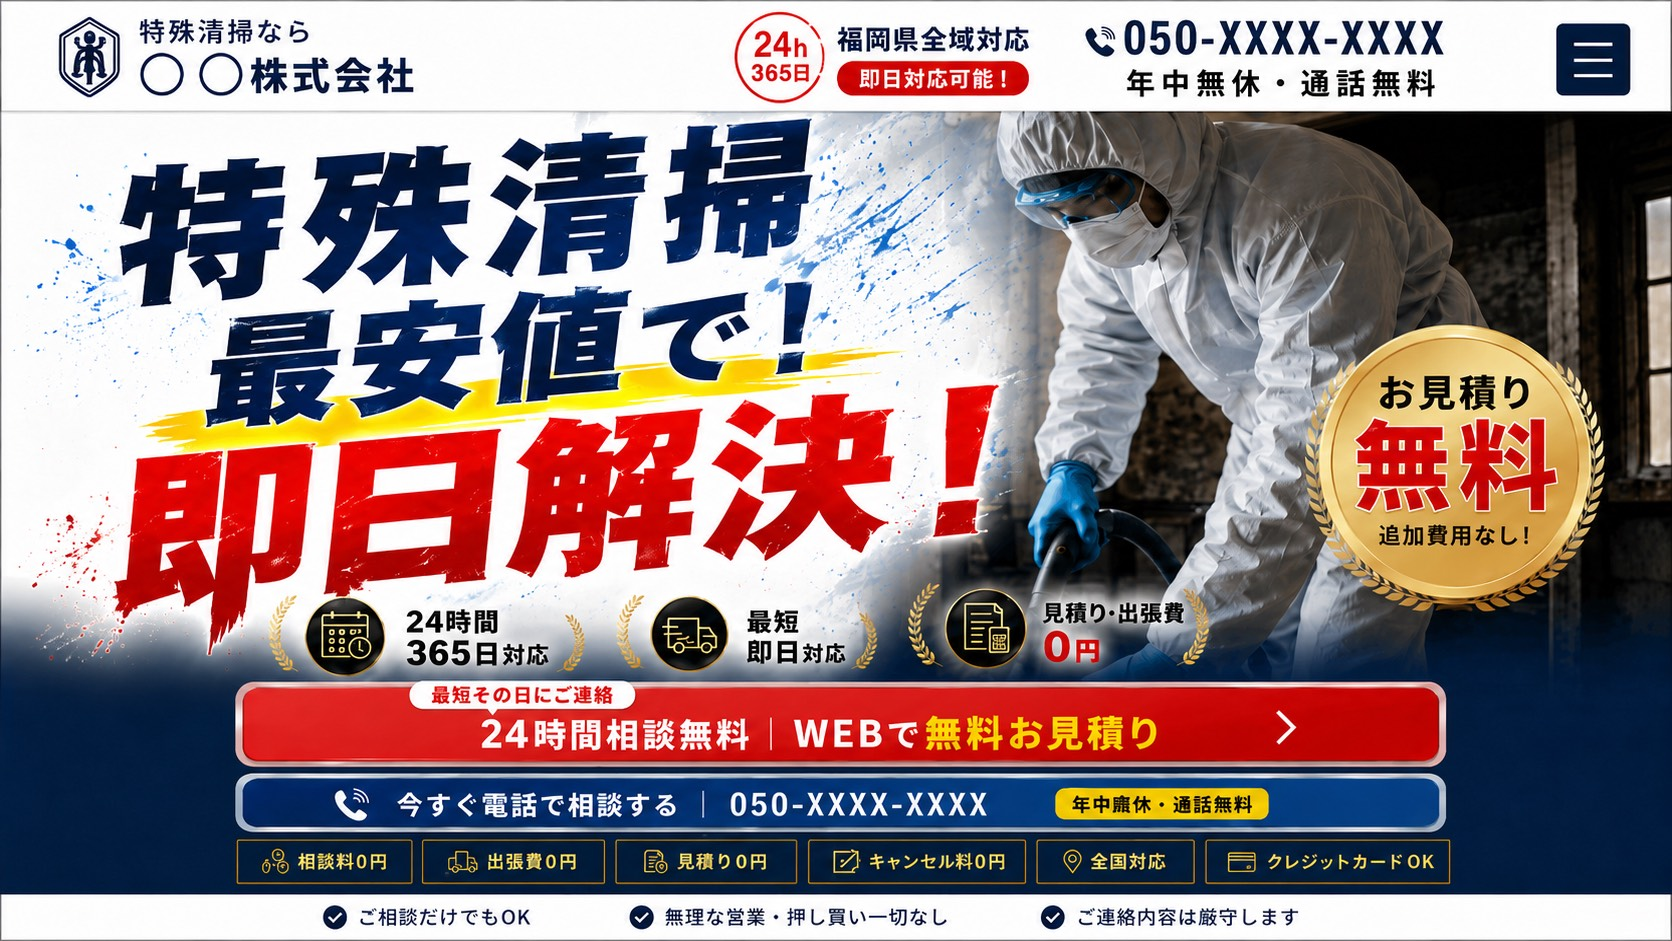
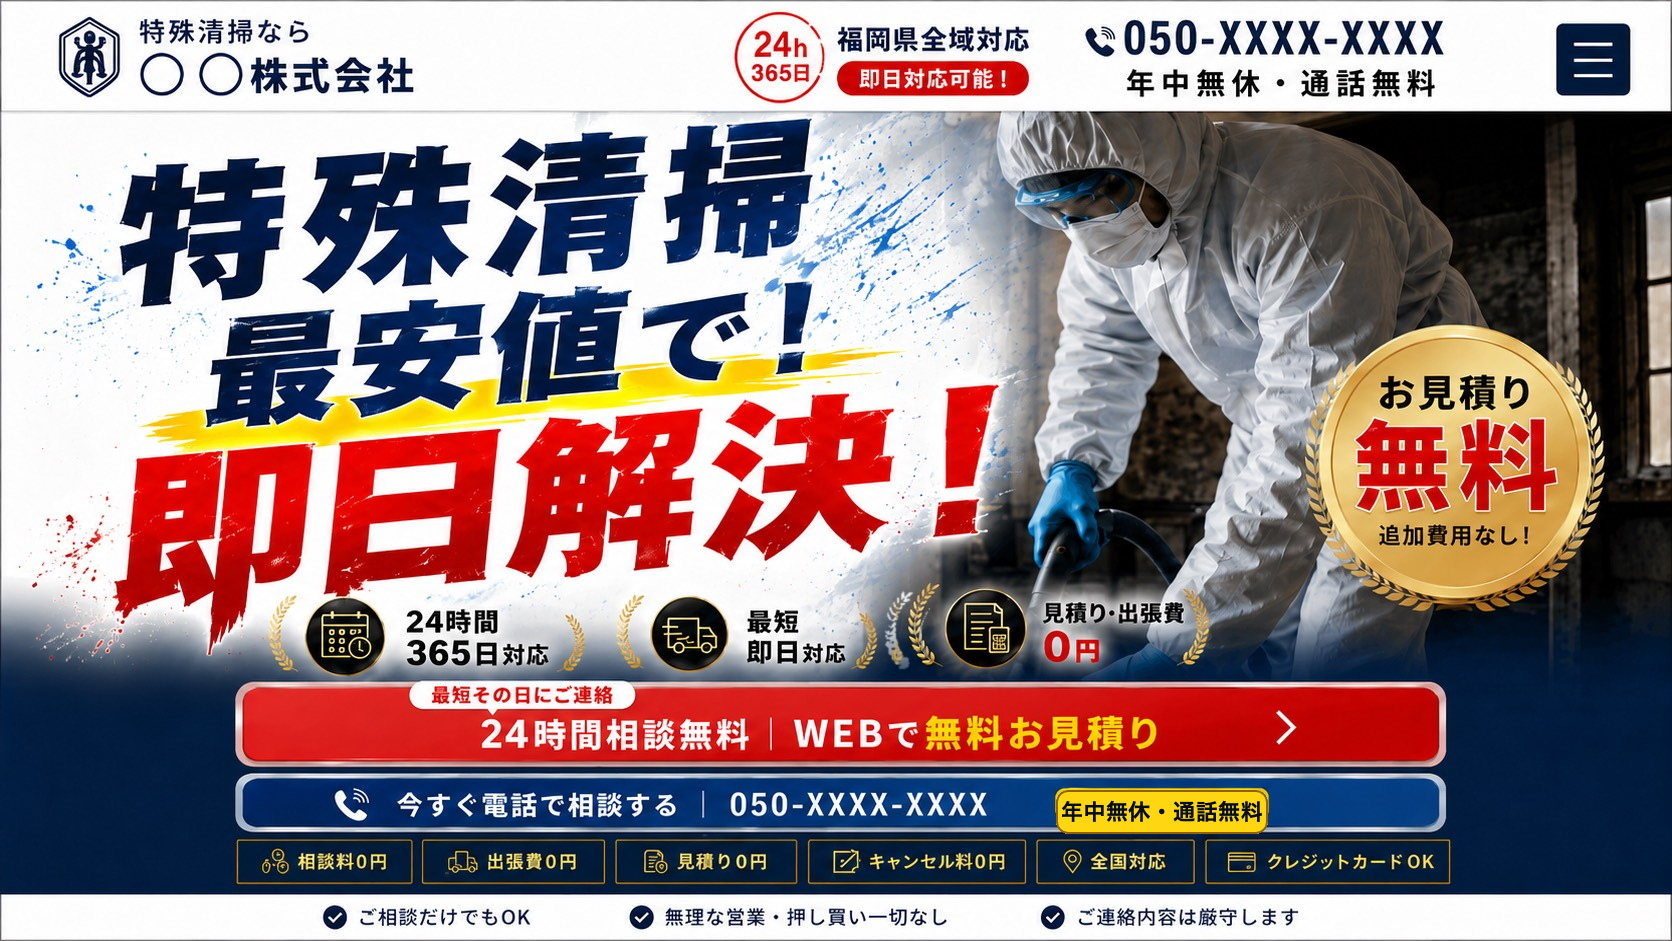
Refine public special cleaning HP visuals

Changed region(s): [[0.622, 0.8321, 0.7775, 0.8937], [0.5287, 0.6164, 0.5598, 0.7088]]

diff --git a/index.html b/index.html
@@ -104,8 +104,33 @@
               <img src="assets/tokushu-before-after.png" alt="特殊清掃と原状回復のビフォーアフターイメージ" width="1675" height="943" loading="lazy" decoding="async">
               <figcaption>原状回復のビフォーアフター。<br>清掃・消臭・片付けまで一括で対応します。</figcaption>
             </figure>
-            <div class="badge-panel"><h3>加盟スタッフの保有資格</h3><div class="license-badges"><span>事件現場特殊清掃士</span><span>遺品整理士</span></div><p>※取得者がいる加盟店のみ明記。<br>公開前に実情報へ差し替えてください。</p></div>
-            <div class="property-panel"><h3>対応物件</h3><ul class="property-list"><li><span class="property-icon property-icon--house"></span>戸建て</li><li><span class="property-icon property-icon--mansion"></span>マンション</li><li><span class="property-icon property-icon--apartment"></span>アパート</li><li><span class="property-icon property-icon--office"></span>オフィス</li><li><span class="property-icon property-icon--shop"></span>店舗</li></ul></div>
+            <article class="credential-panel">
+              <div class="credential-panel__copy">
+                <p class="credential-panel__eyebrow">有資格者が在籍</p>
+                <h3>「使命」を持って、現場に向き合う<br>事件現場特殊清掃士</h3>
+                <p>事件現場特殊清掃士は、一般社団法人 事件現場特殊清掃センターの認定資格です。特殊清掃に必要な知識・技術・心構えを学んだスタッフが、現場ごとの判断を丁寧に行います。</p>
+                <ul class="credential-points">
+                  <li>汚染箇所の見極め</li>
+                  <li>消臭・除菌工程の設計</li>
+                  <li>ご遺族・近隣への配慮</li>
+                </ul>
+                <div class="license-badges"><span>事件現場特殊清掃士</span><span>遺品整理士</span></div>
+              </div>
+              <figure class="certificate-photo">
+                <img src="assets/certificate-special-cleaning.jpg" alt="事件現場特殊清掃士の認定証イメージ" width="770" height="1048" loading="lazy" decoding="async">
+                <figcaption>専門性を示す認定資格を、現場対応の品質へ。</figcaption>
+              </figure>
+            </article>
+            <article class="property-panel property-panel--premium">
+              <div class="property-panel__copy">
+                <h3>対応物件</h3>
+                <p>戸建て・マンション・アパートから、オフィス・店舗まで。原状回復や管理会社様の再募集を見据えた仕上がりまで一括で整えます。</p>
+              </div>
+              <figure class="lp-photo property-photo">
+                <img src="assets/tokushu-properties-premium.png" alt="戸建て、マンション、アパート、オフィス、店舗の対応物件を表す上質なイメージ" width="1672" height="941" loading="lazy" decoding="async">
+              </figure>
+              <ul class="property-tags"><li>戸建て</li><li>マンション</li><li>アパート</li><li>オフィス</li><li>店舗</li></ul>
+            </article>
           </div>
         </div>
       </section>
@@ -184,7 +209,7 @@
         <div class="container final-cta__inner">
           <div><p class="section-label">無料相談</p><h2>最短最速で原状復帰を目指す<br>管理会社様へ。<br>まずは、お話をお聞かせください。</h2><p>時間が経つほど、ニオイ・害虫・原状回復の負担は大きくなります。<br>24時間365日、最短その日に。<br>費用は最初にすべて確定します。</p></div>
           <div class="final-cta__buttons" id="phone">
-            <a class="cta cta--primary cta--final" href="#web-estimate-form"><span>入力1分・最短その日にご連絡</span><strong>WEBで無料お見積り</strong><i aria-hidden="true"></i></a>
+            <a class="cta cta--primary cta--final" href="#web-estimate-form"><span>入力1分・最短その日にご連絡</span><strong>WEBで無料お見積り<b class="inline-arrow" aria-hidden="true">＞</b></strong></a>
             <a class="cta cta--phone cta--final-phone" href="#phone" data-phone-link><svg viewBox="0 0 24 24" aria-hidden="true"><path d="M7.2 2.7 10 6.9c.6.9.4 2.1-.4 2.8l-1.4 1.2c1.2 2.4 3.2 4.4 5.7 5.7l1.2-1.4c.7-.8 1.9-1 2.8-.4l4.2 2.8c.8.5 1.1 1.5.8 2.4-.6 1.8-2.2 3-4.1 3C8.7 23 1 15.3 1 5.2c0-1.9 1.2-3.5 3-4.1.9-.3 1.9 0 2.4.8Z"/></svg><strong>今すぐ電話で相談 <span data-bind="phone">050-XXXX-XXXX</span></strong><small>年中無休・通話無料</small></a>
             <p>相談・出張・見積・キャンセル：すべて0円<br>ご相談だけでも構いません<br>無理な営業はいたしません<br>ご連絡内容は厳守します</p>
           </div>

diff --git a/styles.css b/styles.css
@@ -13,3 +13,6 @@
 @media (max-width:1199px){.hero__visual{opacity:.64;width:56vw}.worker-figure{right:8%;transform:rotate(10deg) scale(.82);transform-origin:top right}.free-medal{width:150px;height:150px}.free-medal small{font-size:20px}.free-medal strong{font-size:44px}.hero__chips{grid-template-columns:repeat(3,minmax(0,1fr))}.section-split,.final-cta__inner{grid-template-columns:1fr}}
 @media (max-width:767px){:root{--content:min(100% - 24px,520px)}body{padding-bottom:64px}.brand__mark{width:35px}.brand__text span{font-size:11px}.brand__text strong{font-size:17px}.site-header__inner{min-height:62px}.hero__reference img{min-height:0;object-position:center top}.hero__fallback{min-height:760px;padding:18px 0 14px;background:linear-gradient(180deg,rgba(255,255,255,.96) 0 49%,rgba(0,27,61,.98) 49% 100%),linear-gradient(135deg,#fff 0 55%,#141b24 55% 100%)}.hero__body{min-height:455px}.hero__copy{padding-top:4px}.hero__kicker{font-size:17px;padding:5px 10px 4px;transform:rotate(-4deg)}.hero h1{font-size:clamp(58px,17vw,78px)}.hero__price{margin-left:0;margin-right:auto;font-size:33px}.hero__proof{max-width:100%;grid-template-columns:repeat(3,minmax(0,1fr));gap:4px}.proof-item{min-height:66px;gap:4px;font-size:12px;text-align:center;flex-direction:column}.proof-item:before,.proof-item:after{display:none}.proof-icon{width:38px;height:38px}.proof-icon:before,.proof-icon:after{inset:9px}.proof-item em{font-size:20px}.hero__visual{width:58vw;opacity:.5;right:-16px}.worker-figure{top:70px;right:-18px;transform:rotate(12deg) scale(.62)}.free-medal{right:0;bottom:58px;width:122px;height:122px;border-width:5px}.free-medal small{font-size:16px}.free-medal strong{font-size:36px}.free-medal span{font-size:13px}.cta{min-height:68px;padding:12px 14px}.cta--primary span{left:50%;min-width:190px;transform:translateX(-50%);font-size:13px}.cta--primary strong{font-size:21px}.cta--phone{flex-wrap:wrap}.cta--phone strong{font-size:20px}.cta--phone small{width:fit-content;font-size:12px}.hero__chips{grid-template-columns:repeat(3,minmax(0,1fr));gap:6px}.hero__chips li{min-height:42px;font-size:10px}.hero__notes{display:grid;gap:6px;margin-top:14px;padding:10px 12px;font-size:12px}.section{padding:58px 0}.section h2,.final-cta h2{font-size:28px}.metric-row,.reason-grid,.evidence-grid,.service-list,.voice-grid{grid-template-columns:1fr}.badge-panel,.property-panel{grid-column:auto}.lp-photo figcaption{font-size:12px}.proof-photo{margin-bottom:18px}.case-visual{min-height:230px}.property-list{grid-template-columns:repeat(2,minmax(0,1fr))}.faq-card{padding:20px}.faq-card h3,.faq-card p{grid-template-columns:34px 1fr}.faq-card span{width:34px;height:34px}.flow-list li{grid-template-columns:1fr;gap:12px}.flow-list span{width:auto;height:auto;min-height:42px;border-radius:999px}.site-footer{padding-bottom:92px}}
 @media (max-width:767px){html,body{width:100%;max-width:100%;overflow-x:hidden}body{word-break:normal;overflow-wrap:anywhere}.container{max-width:calc(100vw - 24px);overflow:hidden}.section h2,.final-cta h2{font-size:25px;line-height:1.45}.section h2,.section h3,.reason-card h3,.faq-card h3,.faq-card p,.flow-list h3,.flow-list p,.voice-grid h3,.voice-grid dd,.final-cta h2,.final-cta p,.cta strong,.reason-card p,.section-heading p,.lp-photo figcaption,.data-note,.payment-box p,.closing-copy,.sensitive-note,.area-copy{word-break:normal;overflow-wrap:anywhere}.section h2 br,.reason-card h3 br,.reason-card p br,.final-cta h2 br{display:block}.data-note{text-align:left}.badge-panel p{word-break:normal;overflow-wrap:anywhere}}@media (prefers-reduced-motion:reduce){html{scroll-behavior:auto}}
+.credential-panel,.property-panel{padding:24px;border-radius:var(--radius);background:#fff;border:1px solid rgba(0,27,61,.1);box-shadow:0 12px 32px rgba(0,27,61,.08)}.credential-panel{grid-column:2;position:relative;display:grid;grid-template-columns:minmax(0,1fr) 190px;gap:22px;min-height:100%;overflow:hidden}.credential-panel:before{content:"";position:absolute;inset:0;background:linear-gradient(135deg,rgba(245,192,40,.2),transparent 44%),linear-gradient(180deg,#fff,#fbfcff);z-index:0}.credential-panel>*{position:relative;z-index:1}.credential-panel__eyebrow{width:fit-content;margin:0 0 12px;padding:6px 12px;border:1px solid rgba(201,150,34,.55);border-radius:999px;color:#7b560b;background:#fff7cf;font-size:13px;font-weight:900;line-height:1}.credential-panel h3{font-size:23px}.credential-panel__copy>p:not(.credential-panel__eyebrow){margin-top:12px;color:#39475a;line-height:1.8}.credential-points{display:grid;gap:8px;margin:16px 0 0;padding:0;list-style:none}.credential-points li{position:relative;padding:9px 12px 9px 34px;border-radius:6px;background:rgba(0,27,61,.055);color:var(--ink);font-weight:900}.credential-points li:before{content:"";position:absolute;left:13px;top:50%;width:9px;height:14px;border-right:3px solid var(--gold);border-bottom:3px solid var(--gold);transform:translateY(-58%) rotate(45deg)}.credential-panel .license-badges{margin:16px 0 0}.certificate-photo{align-self:stretch;display:grid;gap:8px;margin:0}.certificate-photo img{width:100%;height:100%;max-height:390px;object-fit:cover;object-position:center 42%;border-radius:6px;border:1px solid rgba(201,150,34,.42);box-shadow:0 14px 28px rgba(0,27,61,.18)}.certificate-photo figcaption{color:#6a7280;font-size:12px;font-weight:900;line-height:1.5}.property-panel{grid-column:1/-1}.property-panel--premium{display:grid;grid-template-columns:.58fr 1fr;gap:24px;align-items:center;padding:28px;background:linear-gradient(135deg,#fff,#f7f9fc)}.property-panel__copy p{margin-top:10px;color:#39475a;line-height:1.9}.property-photo{margin:0;border-color:rgba(201,150,34,.28);box-shadow:0 18px 42px rgba(0,27,61,.13)}.property-tags{grid-column:1/-1;display:grid;grid-template-columns:repeat(5,minmax(0,1fr));gap:10px;margin:0;padding:0;list-style:none}.property-tags li{min-height:50px;display:grid;place-items:center;border:1px solid rgba(201,150,34,.45);border-radius:6px;color:var(--ink);background:#fffdf4;font-weight:900}.cta--final strong{display:inline-flex;align-items:center;justify-content:center;gap:22px}.cta--final strong i{display:inline-block;width:28px;height:28px;flex:0 0 auto;border-top:6px solid currentColor;border-right:6px solid currentColor;transform:rotate(45deg);margin-top:5px}@media (max-width:767px){.credential-panel,.property-panel{grid-column:auto}.credential-panel{grid-template-columns:1fr;padding:20px}.credential-panel h3{font-size:20px}.certificate-photo img{max-height:300px}.property-panel--premium{grid-template-columns:1fr;padding:20px}.property-tags{grid-template-columns:repeat(2,minmax(0,1fr))}.property-photo{order:-1}.cta--final strong{gap:12px}.cta--final strong i{width:20px;height:20px;border-width:5px;margin-top:2px}}
+.inline-arrow{display:inline-block;margin-left:.08em;line-height:1;transform:translateY(.02em)}.cta--final strong{gap:0}
+@media (max-width:767px){.cta--final{min-height:96px;padding-top:20px;padding-bottom:14px}.cta--final>span{top:-18px;left:50%;min-width:min(330px,calc(100% - 42px));max-width:calc(100% - 42px);padding:6px 16px;font-size:13px;line-height:1;white-space:nowrap;transform:translateX(-50%)}.cta--final strong{font-size:clamp(22px,6.2vw,28px);line-height:1.1;white-space:nowrap}}